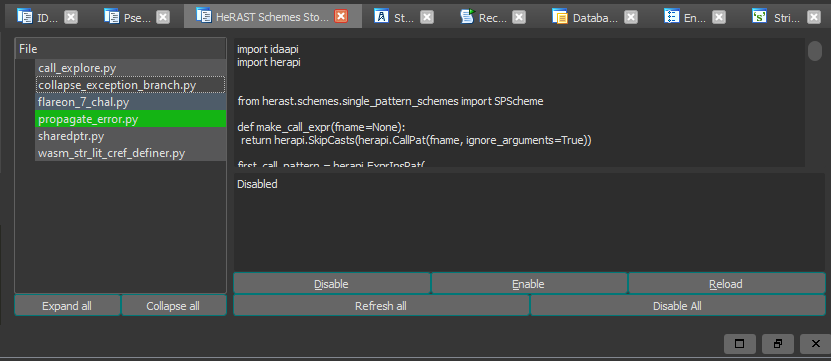
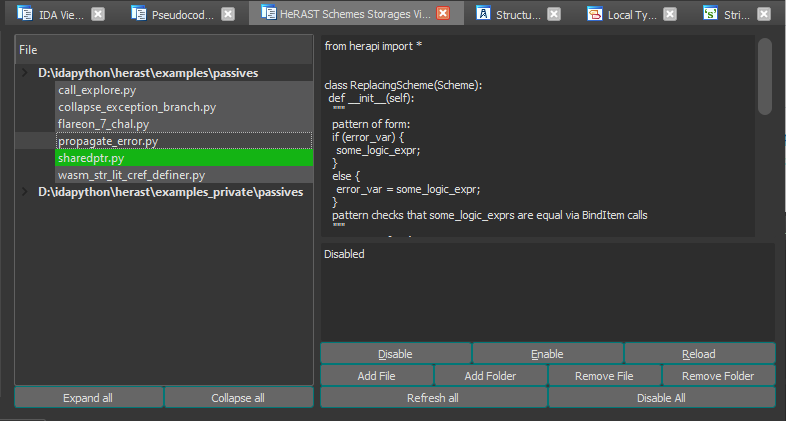
improved documentation and description

diff --git a/README.md b/README.md
@@ -1,24 +1,48 @@
 # herast
 
-Rewritten for IDAPython3 (IDA_VERSION >= 7.4) version of [@groke](https://github.com/grokeus)'s [HRAST](https://github.com/sibears/hrast)
+Rewritten for IDAPython3 (IDA_VERSION >= 7.4) version of [@groke](https://github.com/grokeus)'s [HRAST](https://github.com/sibears/hrast).
+Contains more features, more convenient and richer language for AST patterns and its handling, simple GUI for easier management and expanding over time repository with ready AST patterns (PRs are welcome!).
 
+## What it does
 
-# What it does
 Herast helps with finding AST subtrees and with following work with found items. Herast provides its API via [herapi](https://github.com/mostobriv/herast/tree/main/documentation/herapi.md) module and via GUI view via Shift-M hotkey. Herast is designed for easy expandability, simple reusage and for fast scripting.
 <p align='center'>
 <img src='pictures/storages_manager_view.png'>
 </p>
 
+## Installation
 
-# Installation
 - Place `herast/` to `$IDA_DIR/python/3/` directory
 - Place `herapi.py` to `$IDA_DIR/python/3/` directory
 - Place `herast.py` to `$IDA_DIR/plugins` directory
 
+## Use already written AST handlers
 
-# How to use
+Add this [folder](https://github.com/mostobriv/herast/tree/main/examples/passives) for IDB in Schemes Storages View (Shift-M) or globally via herapi.add_storage_folder(folder_name, global_settings=True). Then enable needed storages and see the results applied to pseudocode.  
+
+Couple examples:  
+collapse_exception_branch replaces  
+<p align='center'>
+<img src='https://github.com/mostobriv/herast/blob/main/pictures/collapse_exception_before.png'>
+</p>  
+into
+<p align='center'>
+<img src='https://github.com/mostobriv/herast/blob/main/pictures/collapse_exception_after.png'>
+</p>  
+
+propagate_error replaces  
+<p align='center'>
+<img src='https://github.com/mostobriv/herast/blob/main/pictures/propagate_error_before.png'>
+</p>  
+into  
+<p align='center'>
+<img src='https://github.com/mostobriv/herast/blob/main/pictures/propagate_error_after.png'>
+</p>  
+
+## Create your own AST handlers
+
 - Write [patterns](https://github.com/mostobriv/herast/tree/main/documentation/patterns.md) that describe parts of AST
 - Write [schemes](https://github.com/mostobriv/herast/tree/main/documentation/schemes.md) that describe handling of found patterns
-- Either export schemes to passive matcher (herapi.register_storage_scheme), that will later automatically apply them on the fly and modify decompilation output (see [examples](https://github.com/mostobriv/herast/tree/main/examples/passives))
-OR   
-- Match schemes yourself with the help of [Matcher](https://github.com/mostobriv/herast/blob/main/herast/tree/matcher.py) (see [examples](https://github.com/mostobriv/herast/tree/main/examples/scripts))
+- Either export schemes to passive matcher (herapi.register_storage_scheme), that will later automatically apply them on the fly and modify every decompilation output (see [examples](https://github.com/mostobriv/herast/tree/main/examples/passives))
+OR  
+- Use them as scripts with the help of [Matcher](https://github.com/mostobriv/herast/blob/main/herast/tree/matcher.py) (see [examples](https://github.com/mostobriv/herast/tree/main/examples/scripts))

diff --git a/documentation/README.md b/documentation/README.md
@@ -1,28 +1,35 @@
 # Terminology
-- Pattern is a way to describe part of decompiled AST. Patterns are further described in https://github.com/mostobriv/herast/tree/main/documentation/patterns.md
-- Scheme is a way to handle found patterns in decompiled functions. Schemes are further described in https://github.com/mostobriv/herast/tree/main/documentation/schemes.md
+
+- Pattern is a way to describe part of decompiled AST. Patterns are further described in [patterns documentation](https://github.com/mostobriv/herast/tree/main/documentation/patterns.md)
+- Scheme is a way to handle found patterns in decompiled functions. Schemes are further described in [schemes documentation](https://github.com/mostobriv/herast/tree/main/documentation/schemes.md)
 - Storage is a module, that can export schemes to herast.
 - Enabled storage is a storage, that passive matcher will load and import schemes from.
 - Enabled scheme is a imported scheme, that will be automatically applied by passive matcher during every decompilation.
 - Matcher is an object, that applies schemes to functions.
 
+## herapi
 
-# herapi
 herapi is designed for safe "import * from herapi". In order to get more information for herapi entries use help(herapi.FUNCTION_OR_CLASS).
  Use herapi.herapi_help() instead of help(herapi), since herapi only imports from others.  
 
+## Schemes Storages View
 
-# Schemes Storages View
 Actions of schemes storages view are for in-IDB settings only. In order to do actions globally currently it is required to use herapi.  
-- Disable: disables selected storage
-- Enable: enables selected storage
-- Reload: reload selected storage module
-- Refresh all: reload all storage modules
-- Disable all: disable all storages
 
+- Disable: disables selected storage.
+- Enable: enables selected storage.
+- Reload: reload selected storage module.
+- Add File: add new storage module to current IDB.
+- Add Folder: add new folder with storage modules to current IDB.
+- Remove File: remove selected storage module from current IDB.
+- Remove Folder: remove selected folder with storage modules from current IDB.
+- Refresh all: refresh GUI view.
+- Disable all: disable all storages.
 
-# Settings
+## Settings
+
 There are two ways to configure settings: globally in C:\Users\USERNAME\AppData\Roaming\Hex-Rays\IDA Pro\herast_settings.json or in specific IDB "$herast:PatternStorage" netnode. IDB settings overwrite global.  
+
 - Storage folders: folders with schemes storages. Every .py file from folders will be imported with expectation of herapi.register_storage_scheme() calls.
 - Storage files: specific python modules, that will be imported with expectation of herapi.register_storage_scheme() calls.
 - Storage statuses: "enabled" or "disabled" for each storage module. Enabled means schemes will be loaded and used, disabled means otherwise.
